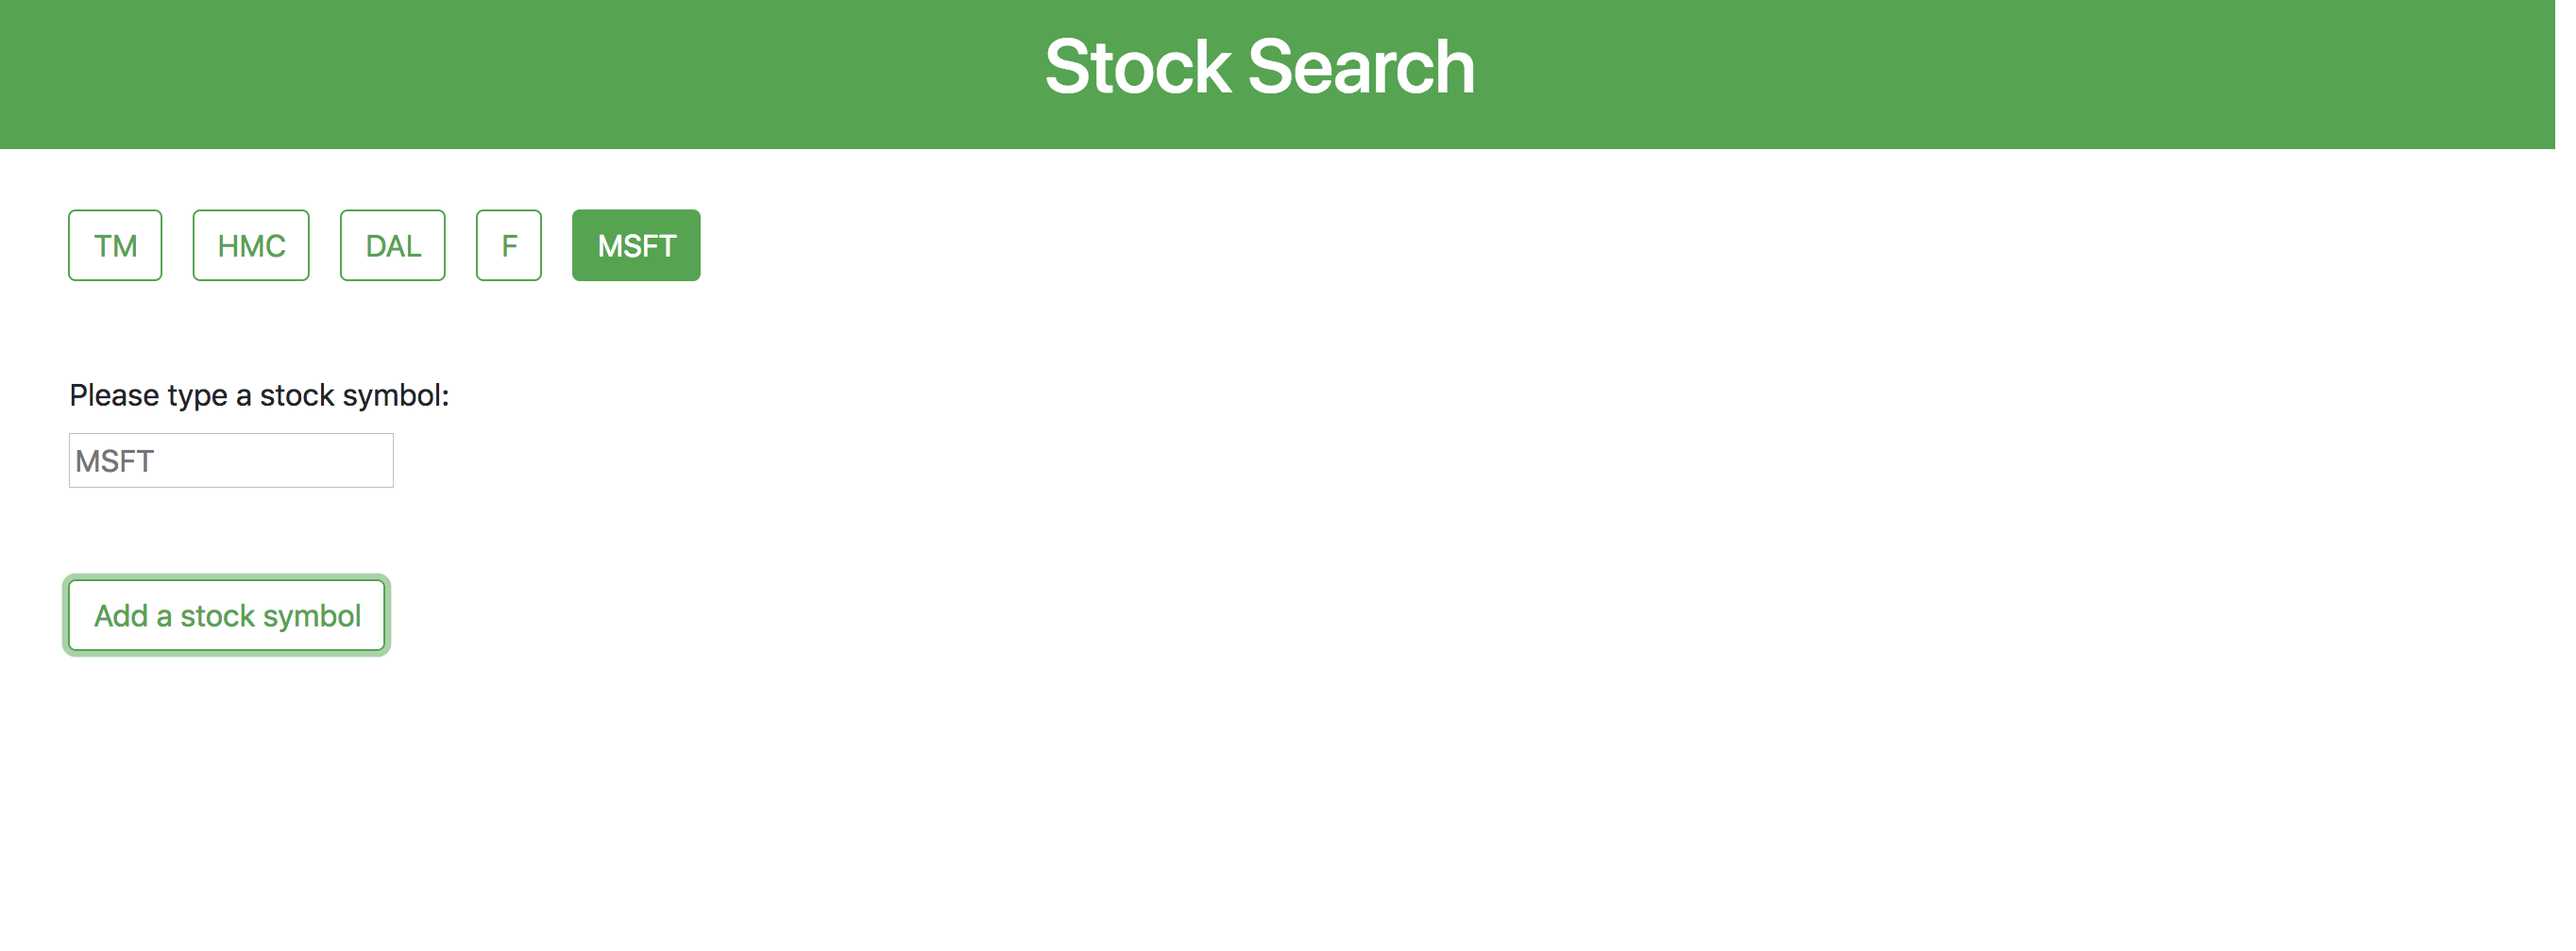
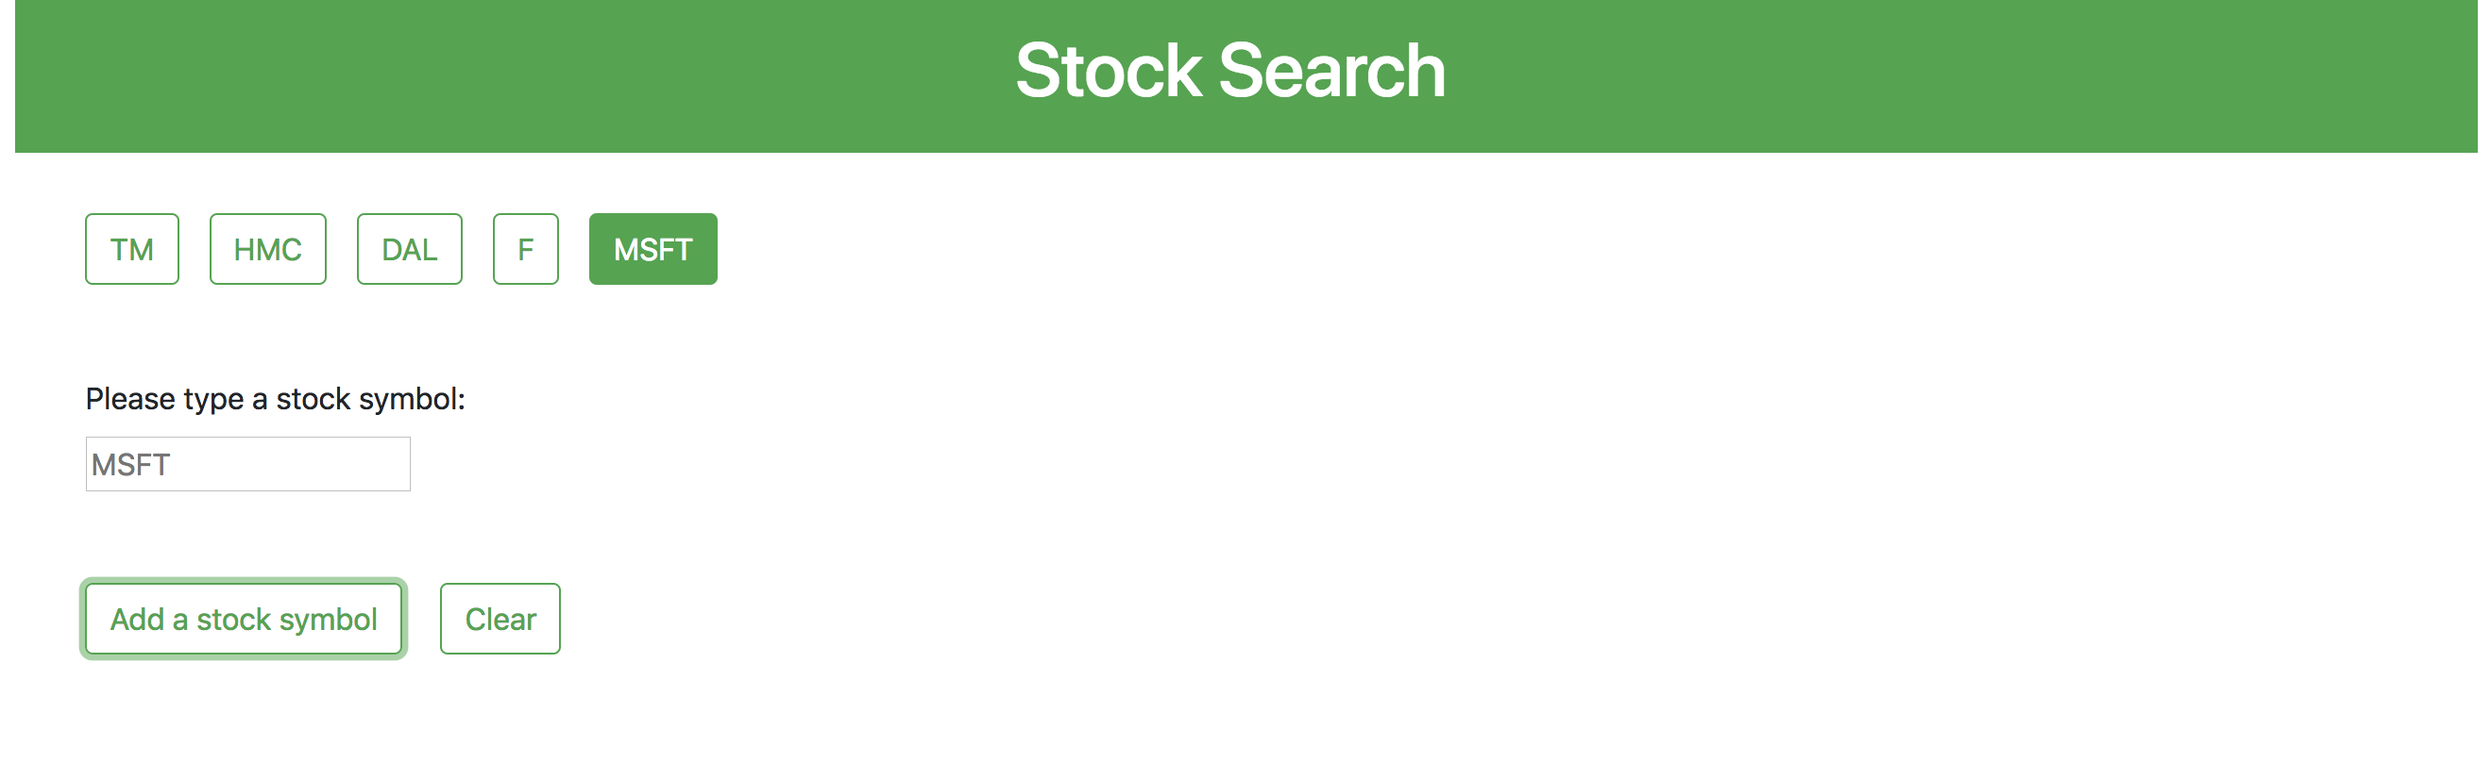
Modified readme and app.js to add one more API

diff --git a/app.js b/app.js
@@ -1,6 +1,6 @@
-const stocksList = ["TM", "HMC", "DAL", "F"];
+let stocksList = ["TM", "HMC", "DAL", "F"];
 const validationList = [];
-
+let favoriteList = [];
 
 // Function for displaying stock data
 const renderButton = function () {
@@ -9,7 +9,7 @@ const renderButton = function () {
     // (this is necessary otherwise you will have repeat buttons)
     $('#renderButton').empty();
     // Loops through the array of stocks
-    for (let i = 0; i < stocksList.length; i++) {
+    stocksList.forEach(function (e) {
 
         // Then dynamicaly generates buttons for each stock in the array
         // This code $("<button>") is all jQuery needs to create the beginning and end tag. (<button></button>)
@@ -17,12 +17,13 @@ const renderButton = function () {
         // Adds a class of stock to our button
         newButton.addClass("stock btn btn-outline-success mr-3 mt-3");
         // Added a data-attribute
-        newButton.attr("data-name", stocksList[i]);
+        newButton.attr("data-name", e);
         // Provided the initial button text
-        newButton.text(stocksList[i]);
+        newButton.text(e);
         // Added the button to the buttons-view div
         $('#renderButton').append(newButton);
-    }
+    });
+
 }
 
 //Creates the list of all stock symbols
@@ -110,9 +111,24 @@ const addButton = function (event) {
     }
 }
 
+//Create a favorite button
+const renderFavorite = function () {
+
+    const symbol = $(".checkbox").val();
+
+    favoriteList.push(symbol);
+
+}
+
 //Create row and column to display the company information
 
-const createCompanyInfo = function(logoUrl, companyName, ceo, industry) {
+const createCompanyInfo = function (response) {
+
+    const logoUrl = response.logo.url;
+    const companyName = response.quote.companyName;
+    const ceo = response.company.CEO;
+    const industry = response.company.industry;
+    const symbol = response.quote.symbol;
 
     //Create a row
     const row = $("<div>").addClass("row");
@@ -121,7 +137,9 @@ const createCompanyInfo = function(logoUrl, companyName, ceo, industry) {
     const column = $("<div>").addClass("col-12 col-md-7 mt-3");
 
     //Create a right column in Jumbotron
-    const column2 = $("<div>").addClass("col-12 col-md-5");
+    const column2 = $("<div>").addClass("col-11 col-md-4");
+
+    const column3 = $("<div>").addClass("col-1 col-md-1 mt-5");
 
     //<div> for the first row in the jumbotron
     const stockCompany = $("<div>").addClass("company-name");
@@ -150,16 +168,75 @@ const createCompanyInfo = function(logoUrl, companyName, ceo, industry) {
     //Append the company information to the left column of first row in Jumbotoron
     column.append(stockCompany);
 
+
+    const favoriteButton = $("<input>").addClass("checkbox").attr("type", "checkbox");
+    favoriteButton.attr("value", symbol);
+    favoriteButton.attr("onclick", `renderFavorite()`);
+
+
+    const favorite = $("<h7>").text("Favorite");
+
+    column3.append(favorite);
+    column3.append(favoriteButton);
+
     //Appen to the first row
     row.append(column);
     row.append(column2);
+    row.append(column3);
 
     //Return a row cotaining two columns
     return row;
 }
 
+//Get more news from Newsapi.org
+const getMoreNews = function (companyName, cb) {
+
+    const apiKey = `1c7ba50f1b0b47559556bf164613a54e`;
+    const apiUrl = `https://newsapi.org/v2/everything?q=${companyName}&apiKey=${apiKey}&pageSize=3`;
+
+    $.ajax({
+        url: apiUrl,
+        method: 'GET'
+    }).then(function (response) {
+
+        const news = response.articles;
+
+        //Creating data inside <td> for news
+        news.forEach(function (e) {
+
+            //Get the news information from ajax response
+            const headLine = e.title;
+            const summary = e.description;
+            const newsUrl = e.url;
+            const newsSource = e.source.name;
+
+            //Add all inforamtion for <td>
+            let anotherTd = $("<p>")
+            const headLineTag = $("<h5>").text(headLine);
+            summaryTag = $("<p>").text(summary);
+            sourceTag = $("<p>").text(`Source: ${newsSource}`);
+            anotherTd.append(headLineTag);
+            anotherTd.append(summaryTag);
+            anotherTd.append(sourceTag);
+
+            //Create <a> tag to read more for this story and open a new window.
+            const url = $("<a>").attr("target", "_blank")
+            url.text("Read more").attr("href", newsUrl);
+
+            //Add the url to <td>
+            anotherTd.append(url);
+
+            //Make a line to seperate from another story
+            anotherTd.append(`<hr>`);
+
+            cb(anotherTd);
+        });
+
+    });
+}
+
 //Create a <tbody>
-const createTbody = function (thead, table, price, news) {
+const createTbody = function (thead, table, price, news, name) {
 
     //Creating a <tbody>
     const tbody = $("<tbody>");
@@ -202,12 +279,24 @@ const createTbody = function (thead, table, price, news) {
         newsTd.append(`<hr>`);
     });
 
+
     //Appending the <td> content to <tr>
     tr.append(tdPrice);
+
+    //For another set of news from newsapi.org
+    let td2;
+
+    //Call the funcgtion to get the information
+    getMoreNews(name, function(td2){
+        newsTd.append(td2);
+    });
+
+    // tr.append td for news;
     tr.append(newsTd);
 
     //<tbody> is appending <tr>
     tbody.append(tr);
+
 
     //<thead> is appending after <table>
     table.append(thead);
@@ -219,6 +308,8 @@ const createTbody = function (thead, table, price, news) {
 
 }
 
+
+//Display the stock information on Jumbotron screen
 const renderStock = function () {
 
     const stock = $(this).attr("data-name");
@@ -230,19 +321,14 @@ const renderStock = function () {
         method: 'GET'
     }).then(function (response) {
 
-        console.log(response);
-        const logoUrl = response.logo.url;
-        const companyName = response.quote.companyName;
         const price = response.quote.latestPrice;
         const news = response.news;
-        const ceo = response.company.CEO;
-        const industry = response.company.industry;
-        
+
         //Create a div tag
         const stockDiv = $("<div>").addClass("company-info");
 
         //Create row and column for the company information
-        const rowTag = createCompanyInfo(logoUrl, companyName, ceo, industry);
+        const rowTag = createCompanyInfo(response);
 
         //Append to the stockDiv
         stockDiv.append(rowTag);
@@ -260,7 +346,7 @@ const renderStock = function () {
             </thead>`);
 
         //Create <tbody> and append <thead> and <tbody>
-        const table1 = createTbody(thead, table, price, news);
+        const table1 = createTbody(thead, table, price, news, response.quote.companyName);
 
         //<div> is appending <table>
         stockDiv.append(table1);
@@ -282,8 +368,34 @@ const renderStock = function () {
 }
 
 //Clear the button
-const clearButton = function () {
+const clearButton = function (e) {
+
+    //Avoid reset
+    e.preventDefault();
+
+    //Clear jumbotron screen
     $(".jumbotron").empty();
+    $(".jumbotron").removeClass("bg-gray");
+    $(".jumbotron").addClass("bg-white");
+
+    //Clear stock button
+    stocksList = ["TM", "HMC", "DAL", "F"];
+
+    //Add favorite list to the default stock button
+    for (let i = 0; i < favoriteList.length; i++) {
+
+        if (!stocksList.includes(favoriteList[i])) {
+            stocksList.push(favoriteList[i]);
+        }
+
+    }
+
+    //Clear favorite button
+    favoriteList = [];
+
+    //Display the stock button
+    renderButton();
+
 }
 
 //When Add a stock button was clicked, adds a stock symbol button when clicked

diff --git a/index.html b/index.html
@@ -11,6 +11,9 @@
     <link rel="stylesheet" href="https://stackpath.bootstrapcdn.com/bootstrap/4.1.3/css/bootstrap.min.css" integrity="sha384-MCw98/SFnGE8fJT3GXwEOngsV7Zt27NXFoaoApmYm81iuXoPkFOJwJ8ERdknLPMO"
         crossorigin="anonymous">
 
+    <!--Icon-->
+    <link rel="stylesheet" href="https://use.fontawesome.com/releases/v5.3.1/css/all.css" integrity="sha384-mzrmE5qonljUremFsqc01SB46JvROS7bZs3IO2EmfFsd15uHvIt+Y8vEf7N7fWAU" crossorigin="anonymous">
+
     <!--My Style Sheet-->
     <link rel="stylesheet" type="text/css" href="./assets/css/style.css">
 

diff --git a/assets/css/style.css b/assets/css/style.css
@@ -1,8 +1,17 @@
 p {
-    font-size: 15px;
+    font-size: 15px!important;
+    font-family: Arial, Helvetica, sans-serif!important;
+}
+
+a {
+    font-size: 14px!important;
 }
 
 hr {
     size: 3!important;
     color: gray!important;
+}
+
+h7 {
+    color: red!important;
 }

diff --git a/README.md b/README.md
@@ -27,7 +27,7 @@ Using iexTrading API.
 
 2. Type a stock symbol name and click on "Add a stock symbol" button.
 
-3. If the stock symbol does not exist, it will receive an alert.
+3. If the stock symbol is blank or incorrect, then an alert will be popped up.
 
 ![errorStockSymbol](./assets/images/AlertScreen1.png)
 
@@ -35,9 +35,31 @@ Using iexTrading API.
 
 ![buttonScreen](./assets/images/buttonScreen.png)
 
-5. Click on the stock information you want, and then it will diplay the information.
+5. Click on the stock button for the information you want, and then it will diplay the information.
 
 ![renderScreen](./assets/images/renderScreen.png)
+
+6. If you want to keep the stock button you created after resetting by clear button, then check on the favorite checkmark button.
+
+![checkBox](./assets/images/checkButton.png)
+
+7. After clicking Clear button, MSFT
+button stays on the screen.
+
+![clearButton](./assets/images/clearButton.png)
+
+### Note
+You can access this site from:
+https://makikovaughan.github.io/Responsive-Portfolio/portfolio.html
+Portfolio1 icon.
+
+![responsive](./assets/images/responsive.png)
+
+or
+
+https://makikovaughan.github.io/Bootstrap-Portfolio/portfolio.html
+
+![bootstrap](./assets/images/bootstrap.png)
 
 ## Author
 Makiko Vaughan
